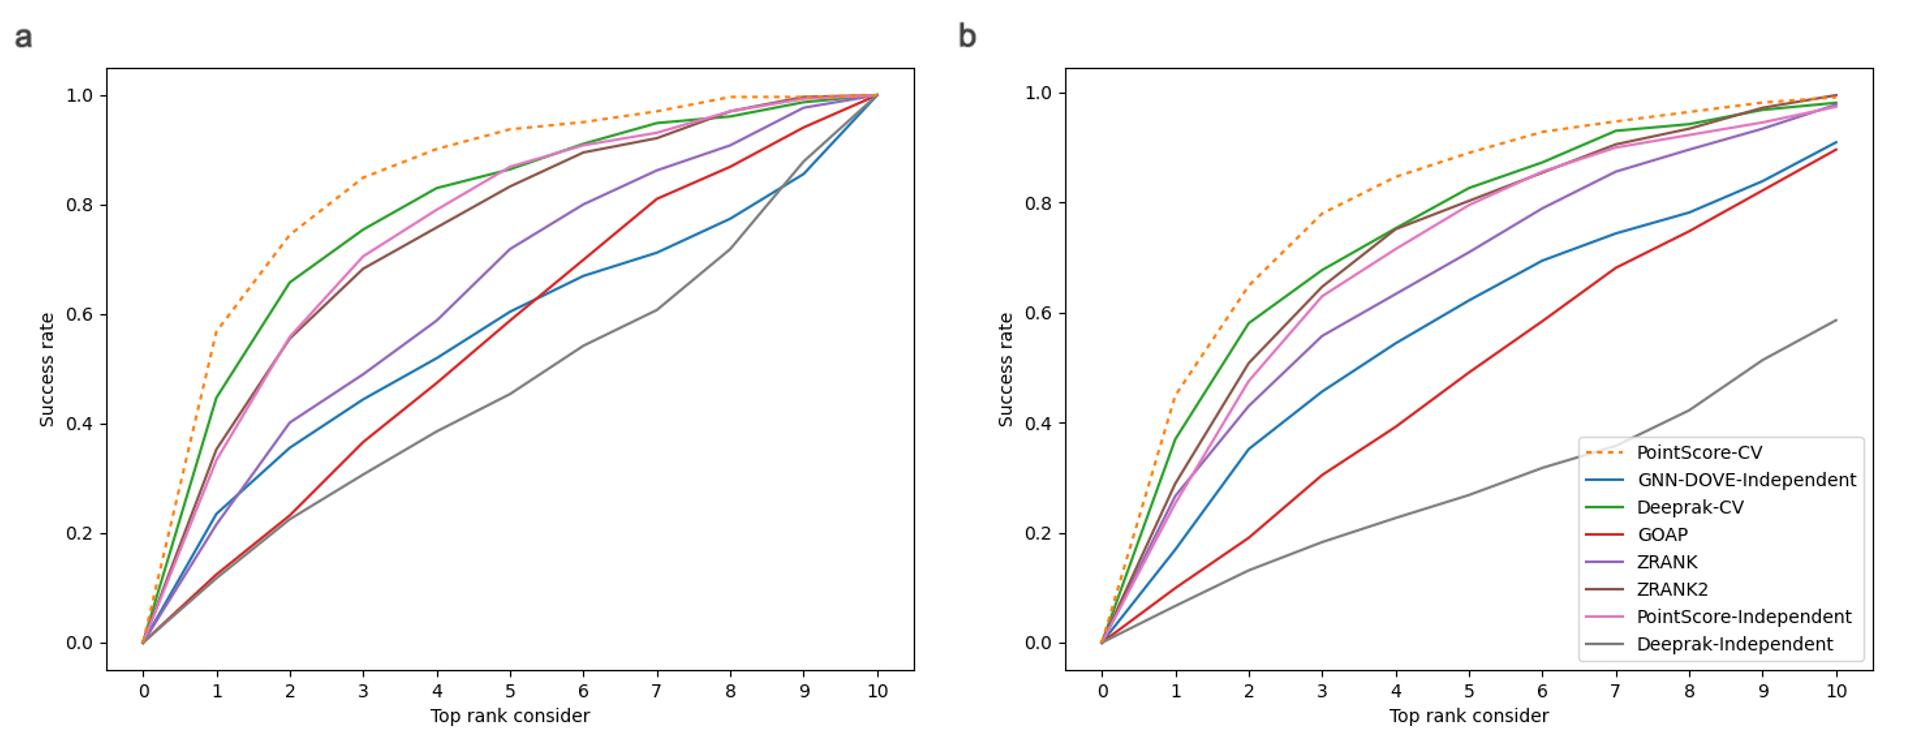
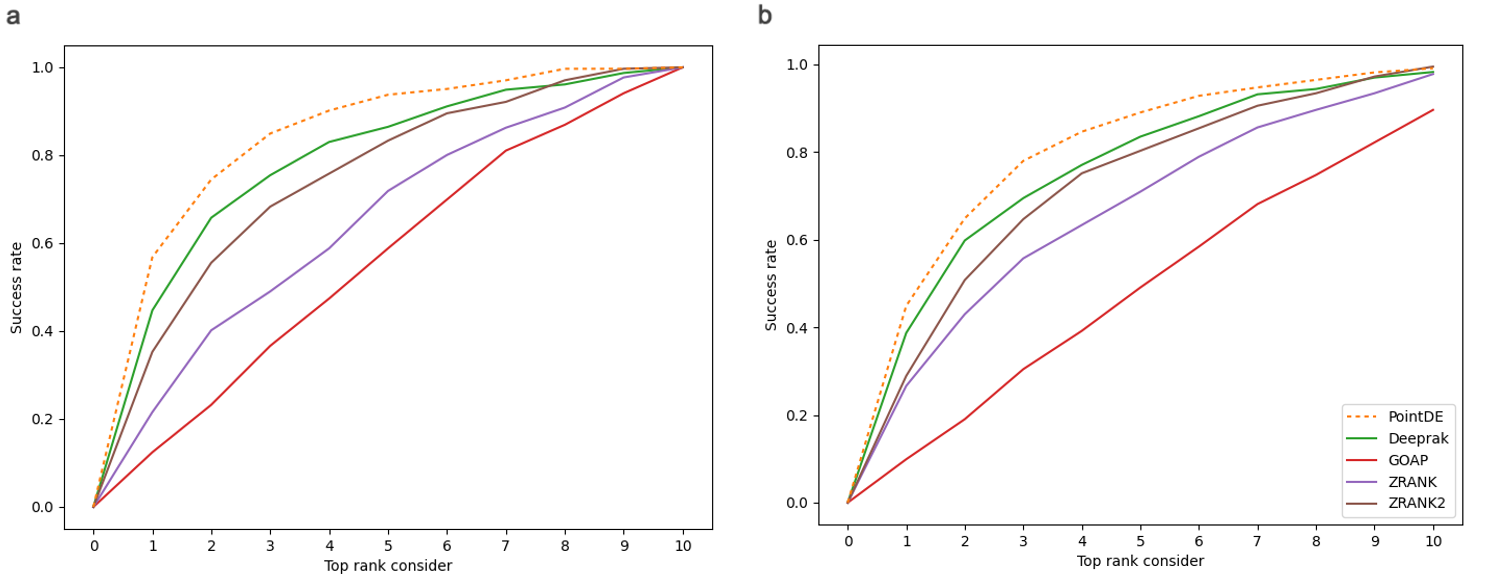
fix sth

diff --git a/README.md b/README.md
@@ -1,9 +1,9 @@
-# PointScore
+# PointDE
 
-PointScore is a 3D point cloud neural network for protein docking scoring.
+ PointDE is a 3D point cloud neural network for protein docking evaluation.
 
 ## Abstract
-Protein-protein interactions (PPIs) play essential roles in maintain life. Due to the high cost of experimental methods, computational methods such as protein-protein docking are being developed to predict protein structure. However, there is still a challenge to select the near-native decoys generated by protein-protein docking. Here, we propose a scoring method based on 3D point cloud neural network named PointScore. PointScore can directly convert protein structure into point cloud vector and extract interaction information through the state-of-the-art point cloud geometries capture architecture and intermolecular grouping mechanism for protein complexes. On several published datasets, PointScore surpasses the state-of-the-art methods using deep learning. To further explore the application potential of our method in antibody-antigen interface analysis, we developed a new decoy set generated by high-quality antibody-antigen structures. Our method has also significantly improved compared with other baselines on our new antibody dataset.
+Protein-protein interactions (PPIs) play essential roles in many vital movements and The determination of protein complex structure is helpful to discover the mechanism of PPI. Protein-protein docking is being developed to modeling the structure of protein. However, there is still a challenge to select the near-native decoys generated by protein-protein docking. Here, we propose a docking evaluation method using 3D point cloud neural network named PointDE. PointDE transform protein structure to point cloud. Using the state-of-the-art point cloud network architecture and a novel grouping mechanism, PointDE can capture the geometries of point cloud and learn the interaction information from protein interface. On public datasets, PointDE surpasses the state-of-the-art method using deep learning. To further explore the ability of our method in different type protein structures, we developed a new dataset generated by high-quality antibody-antigen complexes. The result in this antibody-antigen dataset shows the strong performance of PointDE, which will be helpful for the understanding of PPI mechanisms.
 
 ## Data process
 <p align="center">
@@ -19,13 +19,13 @@ Protein-protein interactions (PPIs) play essential roles in maintain life. Due t
 ### 1. [`Install Git`](https://git-scm.com/book/en/v2/Getting-Started-Installing-Git) 
 ### 2. Clone the repository in your computer 
 ```
-git clone https://github.com/AI-ProteinGroup/PointScore && cd PointScore
+git clone https://github.com/AI-ProteinGroup/PointDE && cd PointDE
 ```
 
 ### 3. Install Requirements
 ```
-conda create -n PointScore python=3.6
-conda activate PointScore
+conda create -n PointDE python=3.6
+conda activate PointDE
 pip install -r requirements.txt 
 ```
 
@@ -77,15 +77,15 @@ The output will be kept in [ssr_sv/{sv_dir}]. The prediction results will be kep
 
 ### 2 CAPRI socre_set [`link`](http://cb.iri.univ-lille1.fr/Users/lensink/Score_set/)
 
-### 3 Antibody-Antigen benchmark [`link`](https://drive.google.com/file/d/1AIMgbbYovESTOvqu7qqqEG24BKgrtkXh/view?usp=sharing)
+### 3 Antibody-Antigen dataset [`link`](https://drive.google.com/file/d/1AIMgbbYovESTOvqu7qqqEG24BKgrtkXh/view?usp=sharing)
 
 ## Result 
-### Performance on Dockground Dataset
+### Performance on Dockground dataset
 <p align="center">
   <img src="figure/Figure_3.png" alt="network" width="80%">
 </p> 
 
-### Performance on our new Antibody-Antigen Benchmark
+### Performance on Antibody-Antigen dataset
 <p align="center">
   <img src="figure/Figure_4.png" alt="network" width="80%">
 </p>
@@ -94,6 +94,4 @@ The output will be kept in [ssr_sv/{sv_dir}]. The prediction results will be kep
 <p align="center">
   <img src="figure/Figure_5.png" alt="network" width="80%">
 </p>
-
-
 
